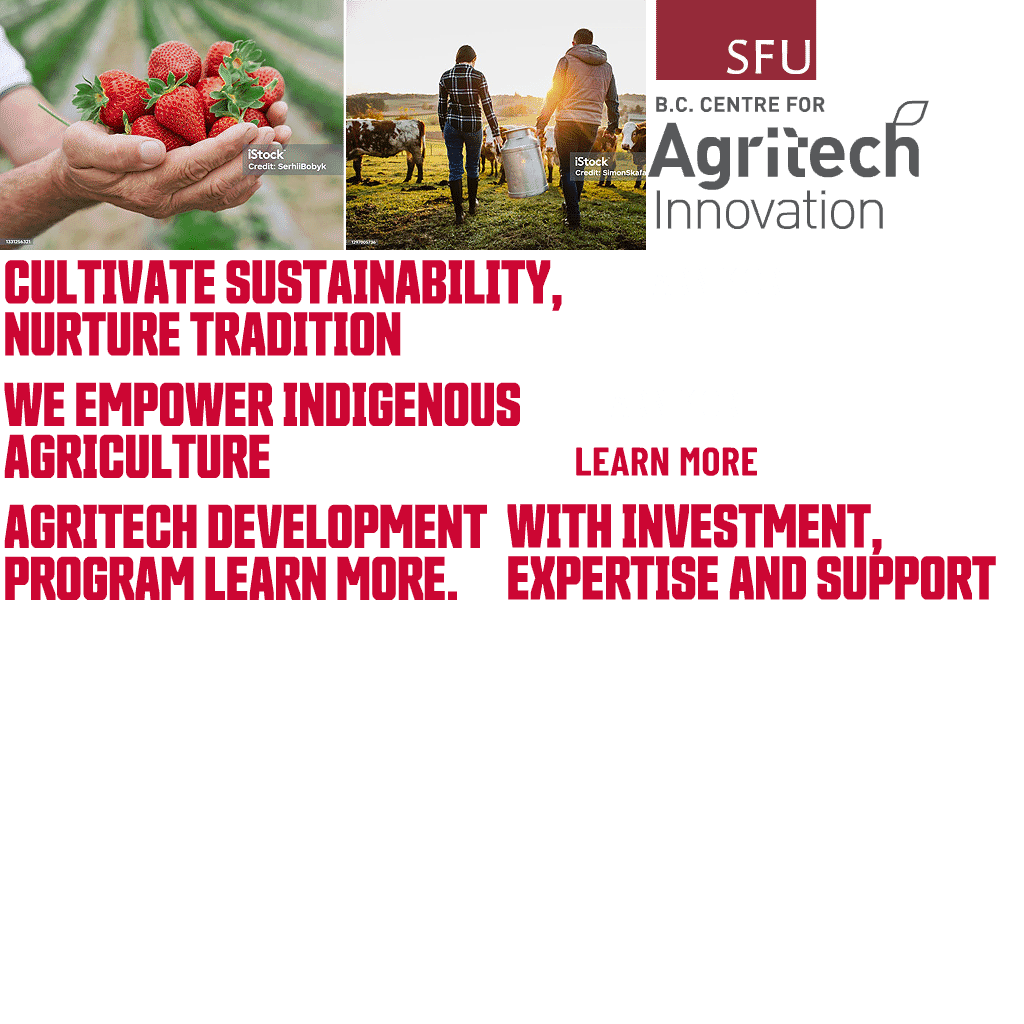
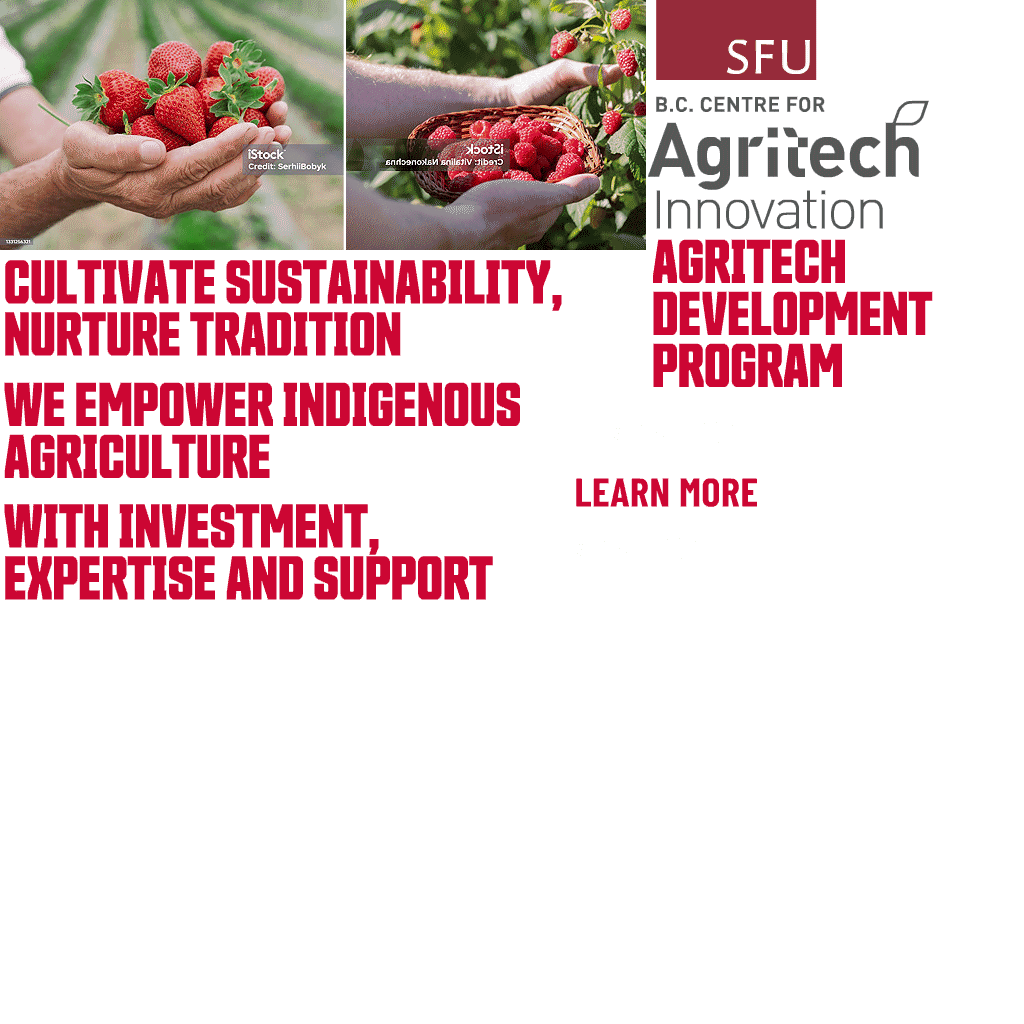
Add files via upload

Changed region(s): [[0.0, 0.0, 0.9062, 0.375], [0.0, 0.4375, 0.9688, 0.5938], [0.0938, 0.2188, 0.125, 0.25]]

diff --git a/BCCAI/Indigenous1_300x250/index.js b/BCCAI/Indigenous1_300x250/index.js
@@ -3,7 +3,7 @@
 var p; // shortcut to reference prototypes
 var lib={};var ss={};var img={};
 lib.ssMetadata = [
-		{name:"index_atlas_1", frames: [[0,496,501,120],[503,496,498,120],[0,374,535,120],[0,252,577,120],[648,0,281,229],[537,374,260,56],[537,432,260,56],[579,252,260,56],[0,0,344,250],[346,0,300,250]]}
+		{name:"index_atlas_1", frames: [[648,231,298,172],[0,496,498,120],[0,374,535,120],[0,252,577,120],[648,0,281,229],[537,405,260,56],[537,463,260,56],[500,521,260,56],[346,0,300,250],[0,0,344,250]]}
 ];
 
 
@@ -83,14 +83,14 @@ lib.ssMetadata = [
 
 
 
-(lib.Pic01 = function() {
+(lib.Bitmap19 = function() {
 	this.initialize(ss["index_atlas_1"]);
 	this.gotoAndStop(8);
 }).prototype = p = new cjs.Sprite();
 
 
 
-(lib.Pic02 = function() {
+(lib.Pic01 = function() {
 	this.initialize(ss["index_atlas_1"]);
 	this.gotoAndStop(9);
 }).prototype = p = new cjs.Sprite();
@@ -117,7 +117,7 @@ if (reversed == null) { reversed = false; }
 	this._renderFirstFrame();
 
 }).prototype = p = new cjs.MovieClip();
-p.nominalBounds = new cjs.Rectangle(0,0,250.5,60);
+p.nominalBounds = new cjs.Rectangle(0,0,149,86);
 
 
 (lib.g_title_3 = function(mode,startPosition,loop,reversed) {
@@ -233,25 +233,14 @@ if (reversed == null) { reversed = false; }
 	cjs.MovieClip.apply(this,[props]);
 
 	// Project_Support
-	this.shape = new cjs.Shape();
-	var sprImg_shape = cjs.SpriteSheetUtils.extractFrame(ss["index_atlas_1"],9);
-	sprImg_shape.onload = function(){
-		this.shape.graphics.bf(sprImg_shape, null, new cjs.Matrix2D(-1,0,0,1,57.6,-203)).s().p("AmoHWIAAurINRAAIAAOrg")
-	}.bind(this);
-	this.shape.setTransform(48,203,1.1648,1,0,0,0,42.5,0);
+	this.instance = new lib.Bitmap19();
 
-	this.instance = new lib.Pic02();
-	this.instance.setTransform(43,0);
-
-	this.instance_1 = new lib.Pic02();
-	this.instance_1.setTransform(66,0,1,1,0,0,180);
-
-	this.timeline.addTween(cjs.Tween.get({}).to({state:[{t:this.instance_1},{t:this.instance},{t:this.shape}]}).wait(1));
+	this.timeline.addTween(cjs.Tween.get(this.instance).wait(1));
 
 	this._renderFirstFrame();
 
 }).prototype = p = new cjs.MovieClip();
-p.nominalBounds = new cjs.Rectangle(-234,0,577,250);
+p.nominalBounds = new cjs.Rectangle(0,0,300,250);
 
 
 (lib.g_pic01 = function(mode,startPosition,loop,reversed) {
@@ -437,7 +426,7 @@ if (reversed == null) { reversed = false; }
 
 	// btn_CTA
 	this.instance_1 = new lib.btn_CTA();
-	this.instance_1.setTransform(0,134);
+	this.instance_1.setTransform(170,218);
 	this.instance_1._off = true;
 	var instance_1Filter_1 = new cjs.ColorFilter(1,1,1,1,0,0,0,0);
 	this.instance_1.filters = [instance_1Filter_1];
@@ -450,16 +439,16 @@ if (reversed == null) { reversed = false; }
 		maskedShapeInstanceList[shapedInstanceItr].mask = mask;
 	}
 
-	this.timeline.addTween(cjs.Tween.get(this.instance_1).wait(350).to({_off:false},0).to({y:139},14,cjs.Ease.get(1)).to({_off:true},85).wait(1));
+	this.timeline.addTween(cjs.Tween.get(this.instance_1).wait(350).to({_off:false},0).to({y:208},14,cjs.Ease.get(1)).to({_off:true},85).wait(1));
 	this.timeline.addTween(cjs.Tween.get(instance_1Filter_1).wait(350).to(new cjs.ColorFilter(0,0,0,1,255,255,255,0), 0).to(new cjs.ColorFilter(1,1,1,1,0,0,0,0), 14,cjs.Ease.get(1)).wait(1));
 
 	// Text_4
 	this.instance_2 = new lib.g_title_4("synched",0);
-	this.instance_2.setTransform(-29.95,203.8,1,1,0,0,0,111.3,31.4);
+	this.instance_2.setTransform(-29.95,198.8,1,1,0,0,0,111.3,31.4);
 	this.instance_2._off = true;
 	var instance_2Filter_2 = new cjs.ColorFilter(1,1,1,1,0,0,0,0);
 	this.instance_2.filters = [instance_2Filter_2];
-	this.instance_2.cache(-2,-2,255,64);
+	this.instance_2.cache(-2,-2,153,90);
 
 	var maskedShapeInstanceList = [this.instance_2];
 
@@ -472,68 +461,68 @@ if (reversed == null) { reversed = false; }
 
 	// Text_4_Bg
 	this.shape_20 = new cjs.Shape();
-	this.shape_20.graphics.f("#FFFFFF").s().p("AgUEdIAAo0IAAgFIARAAIAAAFIAAECIAYAAIAAEyg");
-	this.shape_20.setTransform(-2.875,200.525);
+	this.shape_20.graphics.f("#FFFFFF").s().p("AgSGgIAAs6IAAgFIAbAAIAAAFIAAEEIAKAAIAAEwIgWAAIAAEGg");
+	this.shape_20.setTransform(-3.125,208.65);
 
 	this.shape_21 = new cjs.Shape();
-	this.shape_21.graphics.f("#FFFFFF").s().p("AiYEdIAAo5IEsAAIAAEMIAFAAIAAEtg");
-	this.shape_21.setTransform(10.9,200.525);
+	this.shape_21.graphics.f("#FFFFFF").s().p("AhjGgIAAs/ICMAAIAAEJIA7AAIAAEwIhIAAIAAEGg");
+	this.shape_21.setTransform(5.625,208.65);
 
 	this.shape_22 = new cjs.Shape();
-	this.shape_22.graphics.f("#FFFFFF").s().p("AkbEdIAAo5II2AAIAAERIgNAAIAAEog");
-	this.shape_22.setTransform(24.5,200.525);
+	this.shape_22.graphics.f("#FFFFFF").s().p("AiwGgIAAs/ID3AAIAAEJIBqAAIAAEwIh3AAIAAEGg");
+	this.shape_22.setTransform(13.825,208.65);
 
 	this.shape_23 = new cjs.Shape();
-	this.shape_23.graphics.f("#FFFFFF").s().p("AmXEdIAAo5IMvAAIAAEWIgeAAIAAEjg");
-	this.shape_23.setTransform(37.45,200.525);
+	this.shape_23.graphics.f("#FFFFFF").s().p("Aj3GgIAAs/IFaAAIAAEJICVAAIAAEwIiiAAIAAEGg");
+	this.shape_23.setTransform(21.475,208.65);
 
 	this.shape_24 = new cjs.Shape();
-	this.shape_24.graphics.f("#FFFFFF").s().p("AoLEdIAAo5IQXAAIAAEaIgvAAIAAEfg");
-	this.shape_24.setTransform(49.5,200.525);
+	this.shape_24.graphics.f("#FFFFFF").s().p("Ak6GgIAAs/IG3AAIAAEJIC+AAIAAEwIjKAAIAAEGg");
+	this.shape_24.setTransform(28.6,208.65);
 
 	this.shape_25 = new cjs.Shape();
-	this.shape_25.graphics.f("#FFFFFF").s().p("Ap2EdIAAo5ITtAAIAAEdIg+AAIAAEcg");
-	this.shape_25.setTransform(60.65,200.525);
+	this.shape_25.graphics.f("#FFFFFF").s().p("Al3GgIAAs/IIMAAIAAEJIDjAAIAAEwIjvAAIAAEGg");
+	this.shape_25.setTransform(35.2,208.65);
 
 	this.shape_26 = new cjs.Shape();
-	this.shape_26.graphics.f("#FFFFFF").s().p("ArZEdIAAo5IWyAAIAAEgIhLAAIAAEZg");
-	this.shape_26.setTransform(70.9,200.525);
+	this.shape_26.graphics.f("#FFFFFF").s().p("AmwGgIAAs/IJcAAIAAEJIEFAAIAAEwIkSAAIAAEGg");
+	this.shape_26.setTransform(41.275,208.65);
 
 	this.shape_27 = new cjs.Shape();
-	this.shape_27.graphics.f("#FFFFFF").s().p("AsyEdIAAo5IZlAAIAAEkIhYAAIAAEVg");
-	this.shape_27.setTransform(80.275,200.525);
+	this.shape_27.graphics.f("#FFFFFF").s().p("AnkGgIAAs/IKkAAIAAEJIElAAIAAEwIkyAAIAAEGg");
+	this.shape_27.setTransform(46.825,208.65);
 
 	this.shape_28 = new cjs.Shape();
-	this.shape_28.graphics.f("#FFFFFF").s().p("AuEEdIAAo5IcIAAIAAEnIhjAAIAAESg");
-	this.shape_28.setTransform(88.7,200.525);
+	this.shape_28.graphics.f("#FFFFFF").s().p("AoTGgIAAs/ILlAAIAAEJIFBAAIAAEwIlNAAIAAEGg");
+	this.shape_28.setTransform(51.8,208.65);
 
 	this.shape_29 = new cjs.Shape();
-	this.shape_29.graphics.f("#FFFFFF").s().p("AvMEdIAAo5IeZAAIAAEpIhtAAIAAEQg");
-	this.shape_29.setTransform(96.25,200.525);
+	this.shape_29.graphics.f("#FFFFFF").s().p("Ao8GgIAAs/IMfAAIAAEJIFaAAIAAEwIlnAAIAAEGg");
+	this.shape_29.setTransform(56.275,208.65);
 
 	this.shape_30 = new cjs.Shape();
-	this.shape_30.graphics.f("#FFFFFF").s().p("AwMEdIAAo5MAgZAAAIAAEsIh2AAIAAENg");
-	this.shape_30.setTransform(102.9,200.525);
+	this.shape_30.graphics.f("#FFFFFF").s().p("AphGgIAAs/INSAAIAAEJIFxAAIAAEwIl9AAIAAEGg");
+	this.shape_30.setTransform(60.2,208.65);
 
 	this.shape_31 = new cjs.Shape();
-	this.shape_31.graphics.f("#FFFFFF").s().p("AxDEdIAAo5MAiHAAAIAAEuIh+AAIAAELg");
-	this.shape_31.setTransform(108.65,200.525);
+	this.shape_31.graphics.f("#FFFFFF").s().p("AqAGgIAAs/IN9AAIAAEJIGEAAIAAEwImQAAIAAEGg");
+	this.shape_31.setTransform(63.6,208.65);
 
 	this.shape_32 = new cjs.Shape();
-	this.shape_32.graphics.f("#FFFFFF").s().p("AxyEdIAAo5MAjkAAAIAAEwIiEAAIAAEJg");
-	this.shape_32.setTransform(113.5,200.525);
+	this.shape_32.graphics.f("#FFFFFF").s().p("AqbGgIAAs/IOjAAIAAEJIGUAAIAAEwImhAAIAAEGg");
+	this.shape_32.setTransform(66.475,208.65);
 
 	this.shape_33 = new cjs.Shape();
-	this.shape_33.graphics.f("#FFFFFF").s().p("AyXEdIAAo5MAkvAAAIAAExIiJAAIAAEIg");
-	this.shape_33.setTransform(117.45,200.525);
+	this.shape_33.graphics.f("#FFFFFF").s().p("AqxGgIAAs/IPBAAIAAEJIGiAAIAAEwImuAAIAAEGg");
+	this.shape_33.setTransform(68.8,208.65);
 
 	this.shape_34 = new cjs.Shape();
-	this.shape_34.graphics.f("#FFFFFF").s().p("Ay1EdIAAo5MAlrAAAIAAEyIiOAAIAAEHg");
-	this.shape_34.setTransform(120.475,200.525);
+	this.shape_34.graphics.f("#FFFFFF").s().p("ArCGgIAAs/IPZAAIAAEJIGsAAIAAEwIm4AAIAAEGg");
+	this.shape_34.setTransform(70.6,208.65);
 
 	this.shape_35 = new cjs.Shape();
-	this.shape_35.graphics.f("#FFFFFF").s().p("AzJEdIAAo0IAAgFMAmTAAAIAAAFIAAEuIiRAAIAAEGg");
-	this.shape_35.setTransform(122.625,200.525);
+	this.shape_35.graphics.f("#FFFFFF").s().p("ArOGgIAAs6IAAgFIPqAAIAAAFIAAEEIGzAAIAAEwInAAAIAAEGg");
+	this.shape_35.setTransform(71.875,208.65);
 
 	var maskedShapeInstanceList = [this.shape_20,this.shape_21,this.shape_22,this.shape_23,this.shape_24,this.shape_25,this.shape_26,this.shape_27,this.shape_28,this.shape_29,this.shape_30,this.shape_31,this.shape_32,this.shape_33,this.shape_34,this.shape_35];
 
@@ -699,7 +688,7 @@ if (reversed == null) { reversed = false; }
 	this.instance_4._off = true;
 	var instance_4Filter_4 = new cjs.ColorFilter(1,1,1,1,0,0,0,0);
 	this.instance_4.filters = [instance_4Filter_4];
-	this.instance_4.cache(-236,-2,581,254);
+	this.instance_4.cache(-2,-2,304,254);
 
 	var maskedShapeInstanceList = [this.instance_4];
 
@@ -1065,17 +1054,17 @@ if (reversed == null) { reversed = false; }
 	this.filterCacheList.push({instance: this.instance_1, startFrame:351, endFrame:364, x:-3, y:-3, w:136, h:38});
 	this.filterCacheList.push({instance: this.instance_1, startFrame:365, endFrame:449, x:-3, y:-3, w:136, h:38});
 	this.filterCacheList.push({instance: this.instance_1, startFrame:449, endFrame:450, x:-3, y:-3, w:136, h:38});
-	this.filterCacheList.push({instance: this.instance_2, startFrame:333, endFrame:333, x:-2, y:-2, w:255, h:64});
-	this.filterCacheList.push({instance: this.instance_2, startFrame:0, endFrame:0, x:-2, y:-2, w:255, h:64});
-	this.filterCacheList.push({instance: this.instance_2, startFrame:334, endFrame:349, x:-2, y:-2, w:255, h:64});
+	this.filterCacheList.push({instance: this.instance_2, startFrame:333, endFrame:333, x:-2, y:-2, w:153, h:90});
+	this.filterCacheList.push({instance: this.instance_2, startFrame:0, endFrame:0, x:-2, y:-2, w:153, h:90});
+	this.filterCacheList.push({instance: this.instance_2, startFrame:334, endFrame:349, x:-2, y:-2, w:153, h:90});
 	this.filterCacheList.push({instance: this.instance_3, startFrame:240, endFrame:240, x:-2, y:-2, w:253, h:64});
 	this.filterCacheList.push({instance: this.instance_3, startFrame:0, endFrame:0, x:-2, y:-2, w:253, h:64});
 	this.filterCacheList.push({instance: this.instance_3, startFrame:241, endFrame:256, x:-2, y:-2, w:253, h:64});
 	this.filterCacheList.push({instance: this.instance_3, startFrame:303, endFrame:303, x:-2, y:-2, w:253, h:64});
 	this.filterCacheList.push({instance: this.instance_3, startFrame:304, endFrame:317, x:-2, y:-2, w:253, h:64});
-	this.filterCacheList.push({instance: this.instance_4, startFrame:211, endFrame:211, x:-236, y:-2, w:581, h:254});
-	this.filterCacheList.push({instance: this.instance_4, startFrame:0, endFrame:0, x:-236, y:-2, w:581, h:254});
-	this.filterCacheList.push({instance: this.instance_4, startFrame:212, endFrame:231, x:-236, y:-2, w:581, h:254});
+	this.filterCacheList.push({instance: this.instance_4, startFrame:211, endFrame:211, x:-2, y:-2, w:304, h:254});
+	this.filterCacheList.push({instance: this.instance_4, startFrame:0, endFrame:0, x:-2, y:-2, w:304, h:254});
+	this.filterCacheList.push({instance: this.instance_4, startFrame:212, endFrame:231, x:-2, y:-2, w:304, h:254});
 	this.filterCacheList.push({instance: this.instance_5, startFrame:34, endFrame:34, x:-27, y:-2, w:178, h:132});
 	this.filterCacheList.push({instance: this.instance_5, startFrame:0, endFrame:0, x:-27, y:-2, w:178, h:132});
 	this.filterCacheList.push({instance: this.instance_5, startFrame:35, endFrame:53, x:-27, y:-2, w:178, h:132});
